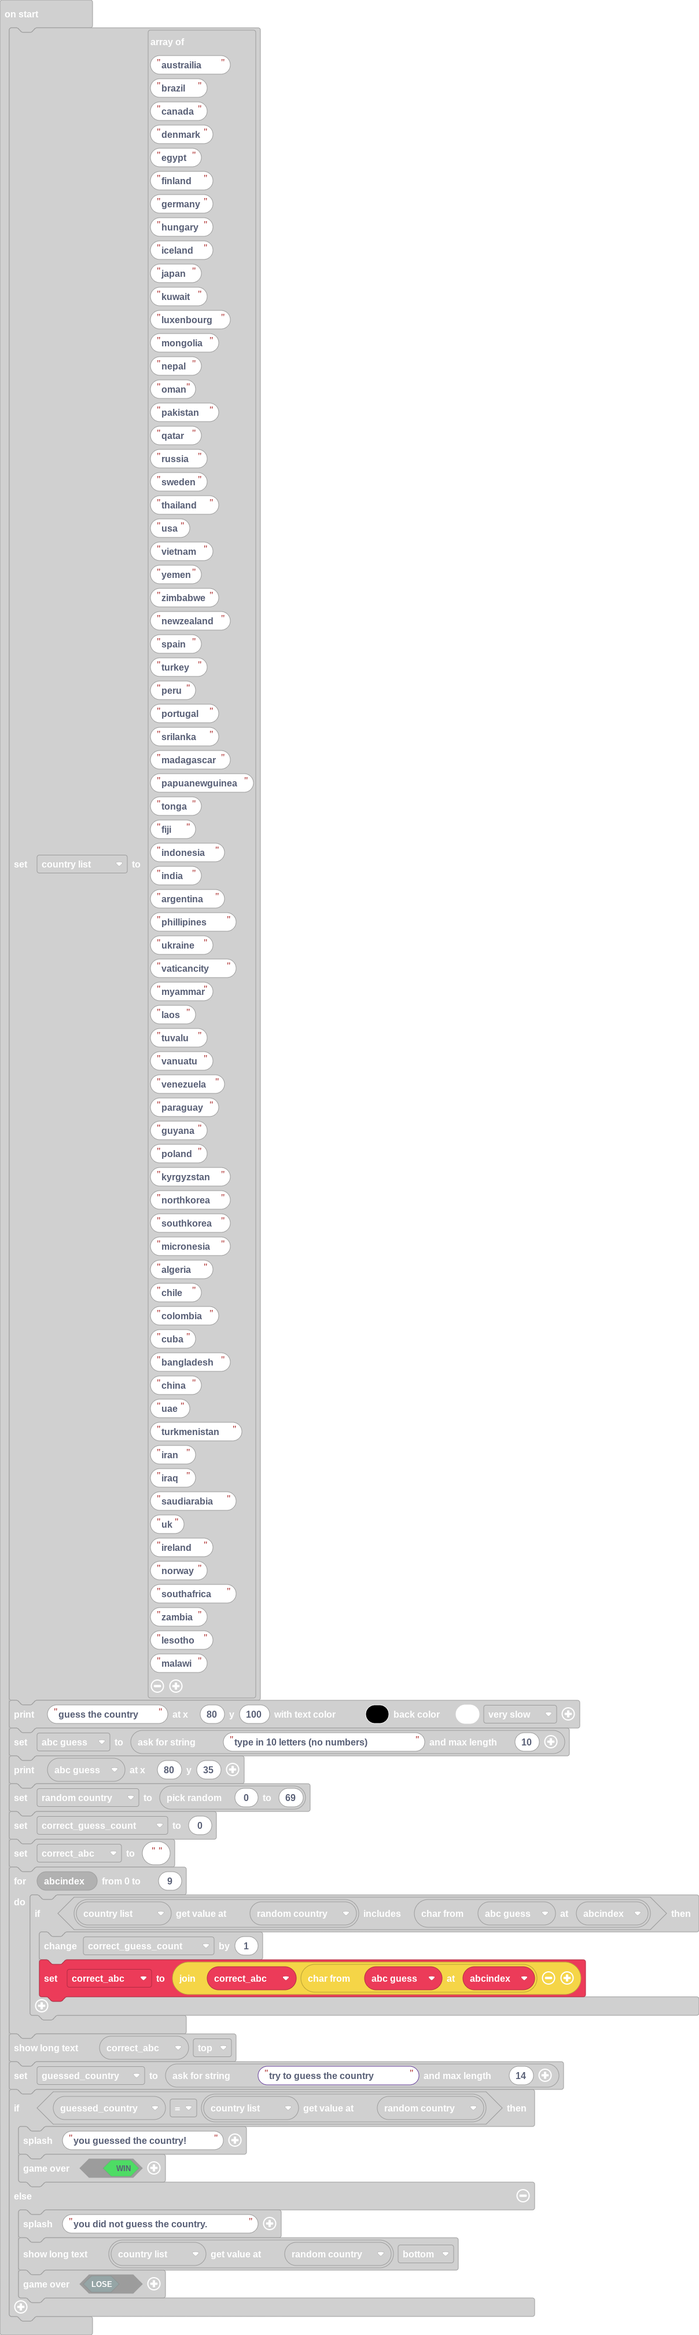
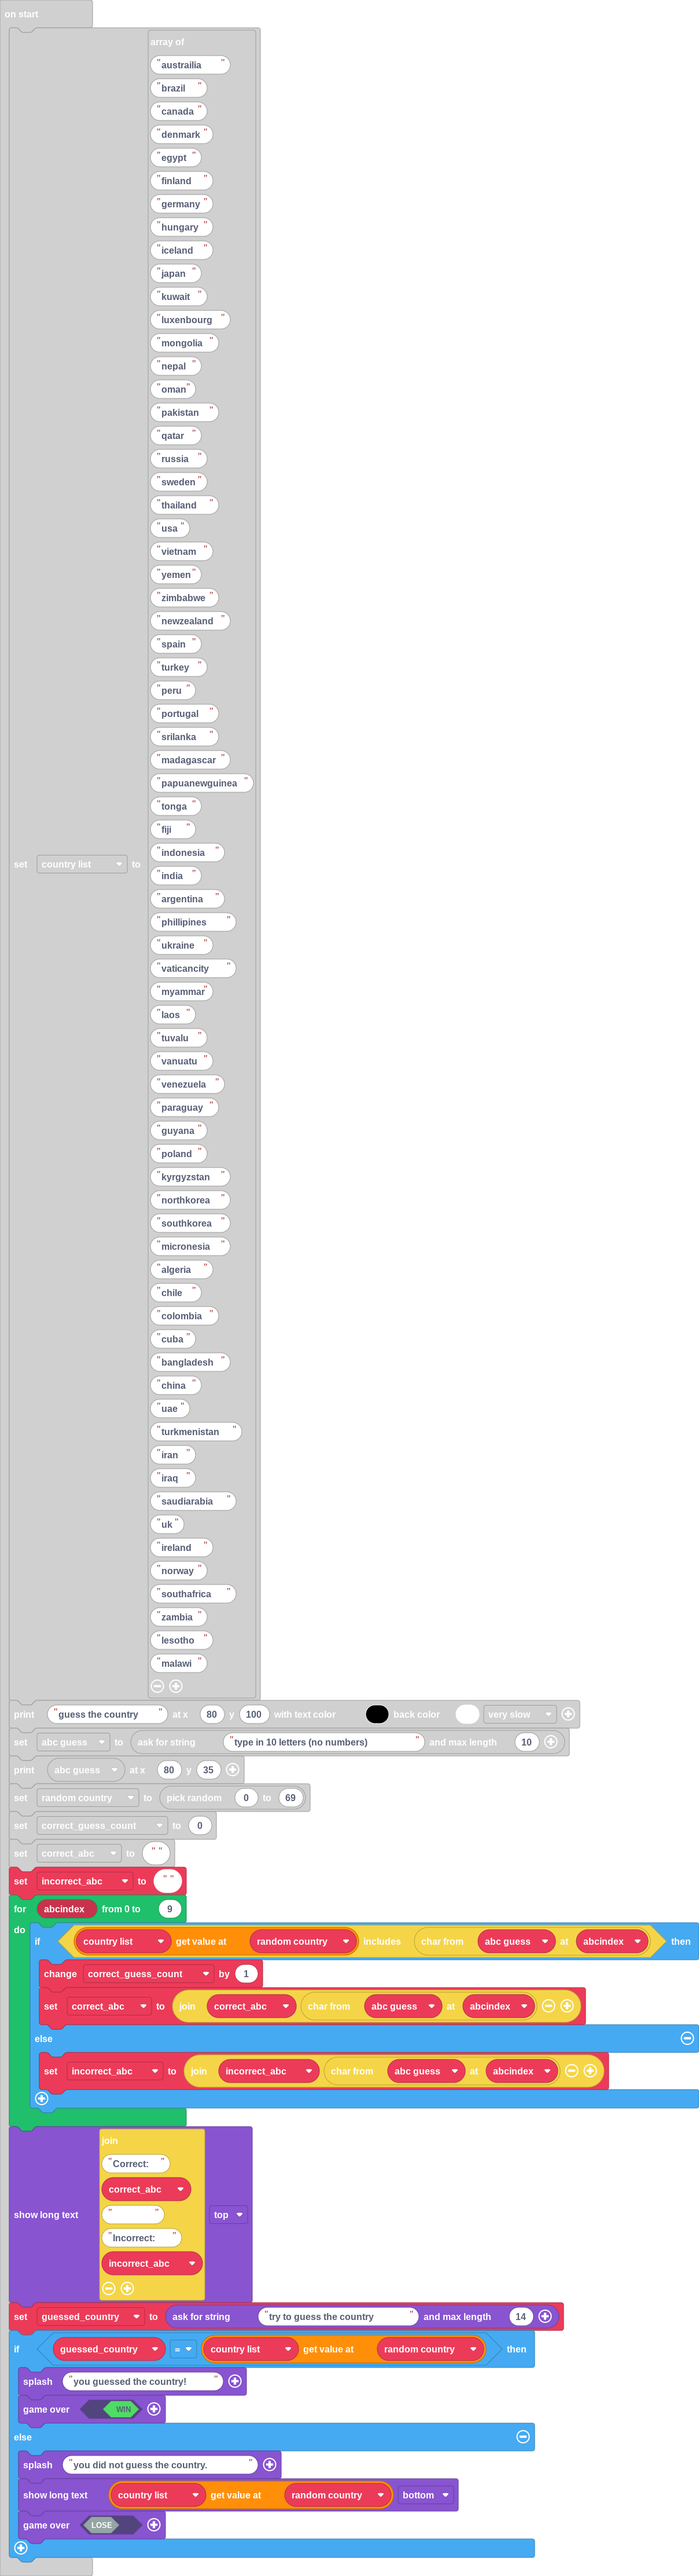
Update main.blocks, main.ts

Changed region(s): [[0.0, 0.0, 1.0, 1.0]]

diff --git a/main.ts b/main.ts
@@ -76,13 +76,16 @@ story.printText(abc_guess, 80, 35)
 let random_country = randint(0, 69)
 let correct_guess_count = 0
 let correct_abc = ""
+let incorrect_abc = ""
 for (let abcindex = 0; abcindex <= 9; abcindex++) {
     if (country_list[random_country].includes(abc_guess.charAt(abcindex))) {
         correct_guess_count += 1
         correct_abc = "" + correct_abc + abc_guess.charAt(abcindex)
+    } else {
+        incorrect_abc = "" + incorrect_abc + abc_guess.charAt(abcindex)
     }
 }
-game.showLongText(correct_abc, DialogLayout.Top)
+game.showLongText("Correct:" + correct_abc + "       " + "Incorrect:" + incorrect_abc, DialogLayout.Top)
 let guessed_country = game.askForString("try to guess the country", 14)
 if (guessed_country == country_list[random_country]) {
     game.splash("you guessed the country!")
